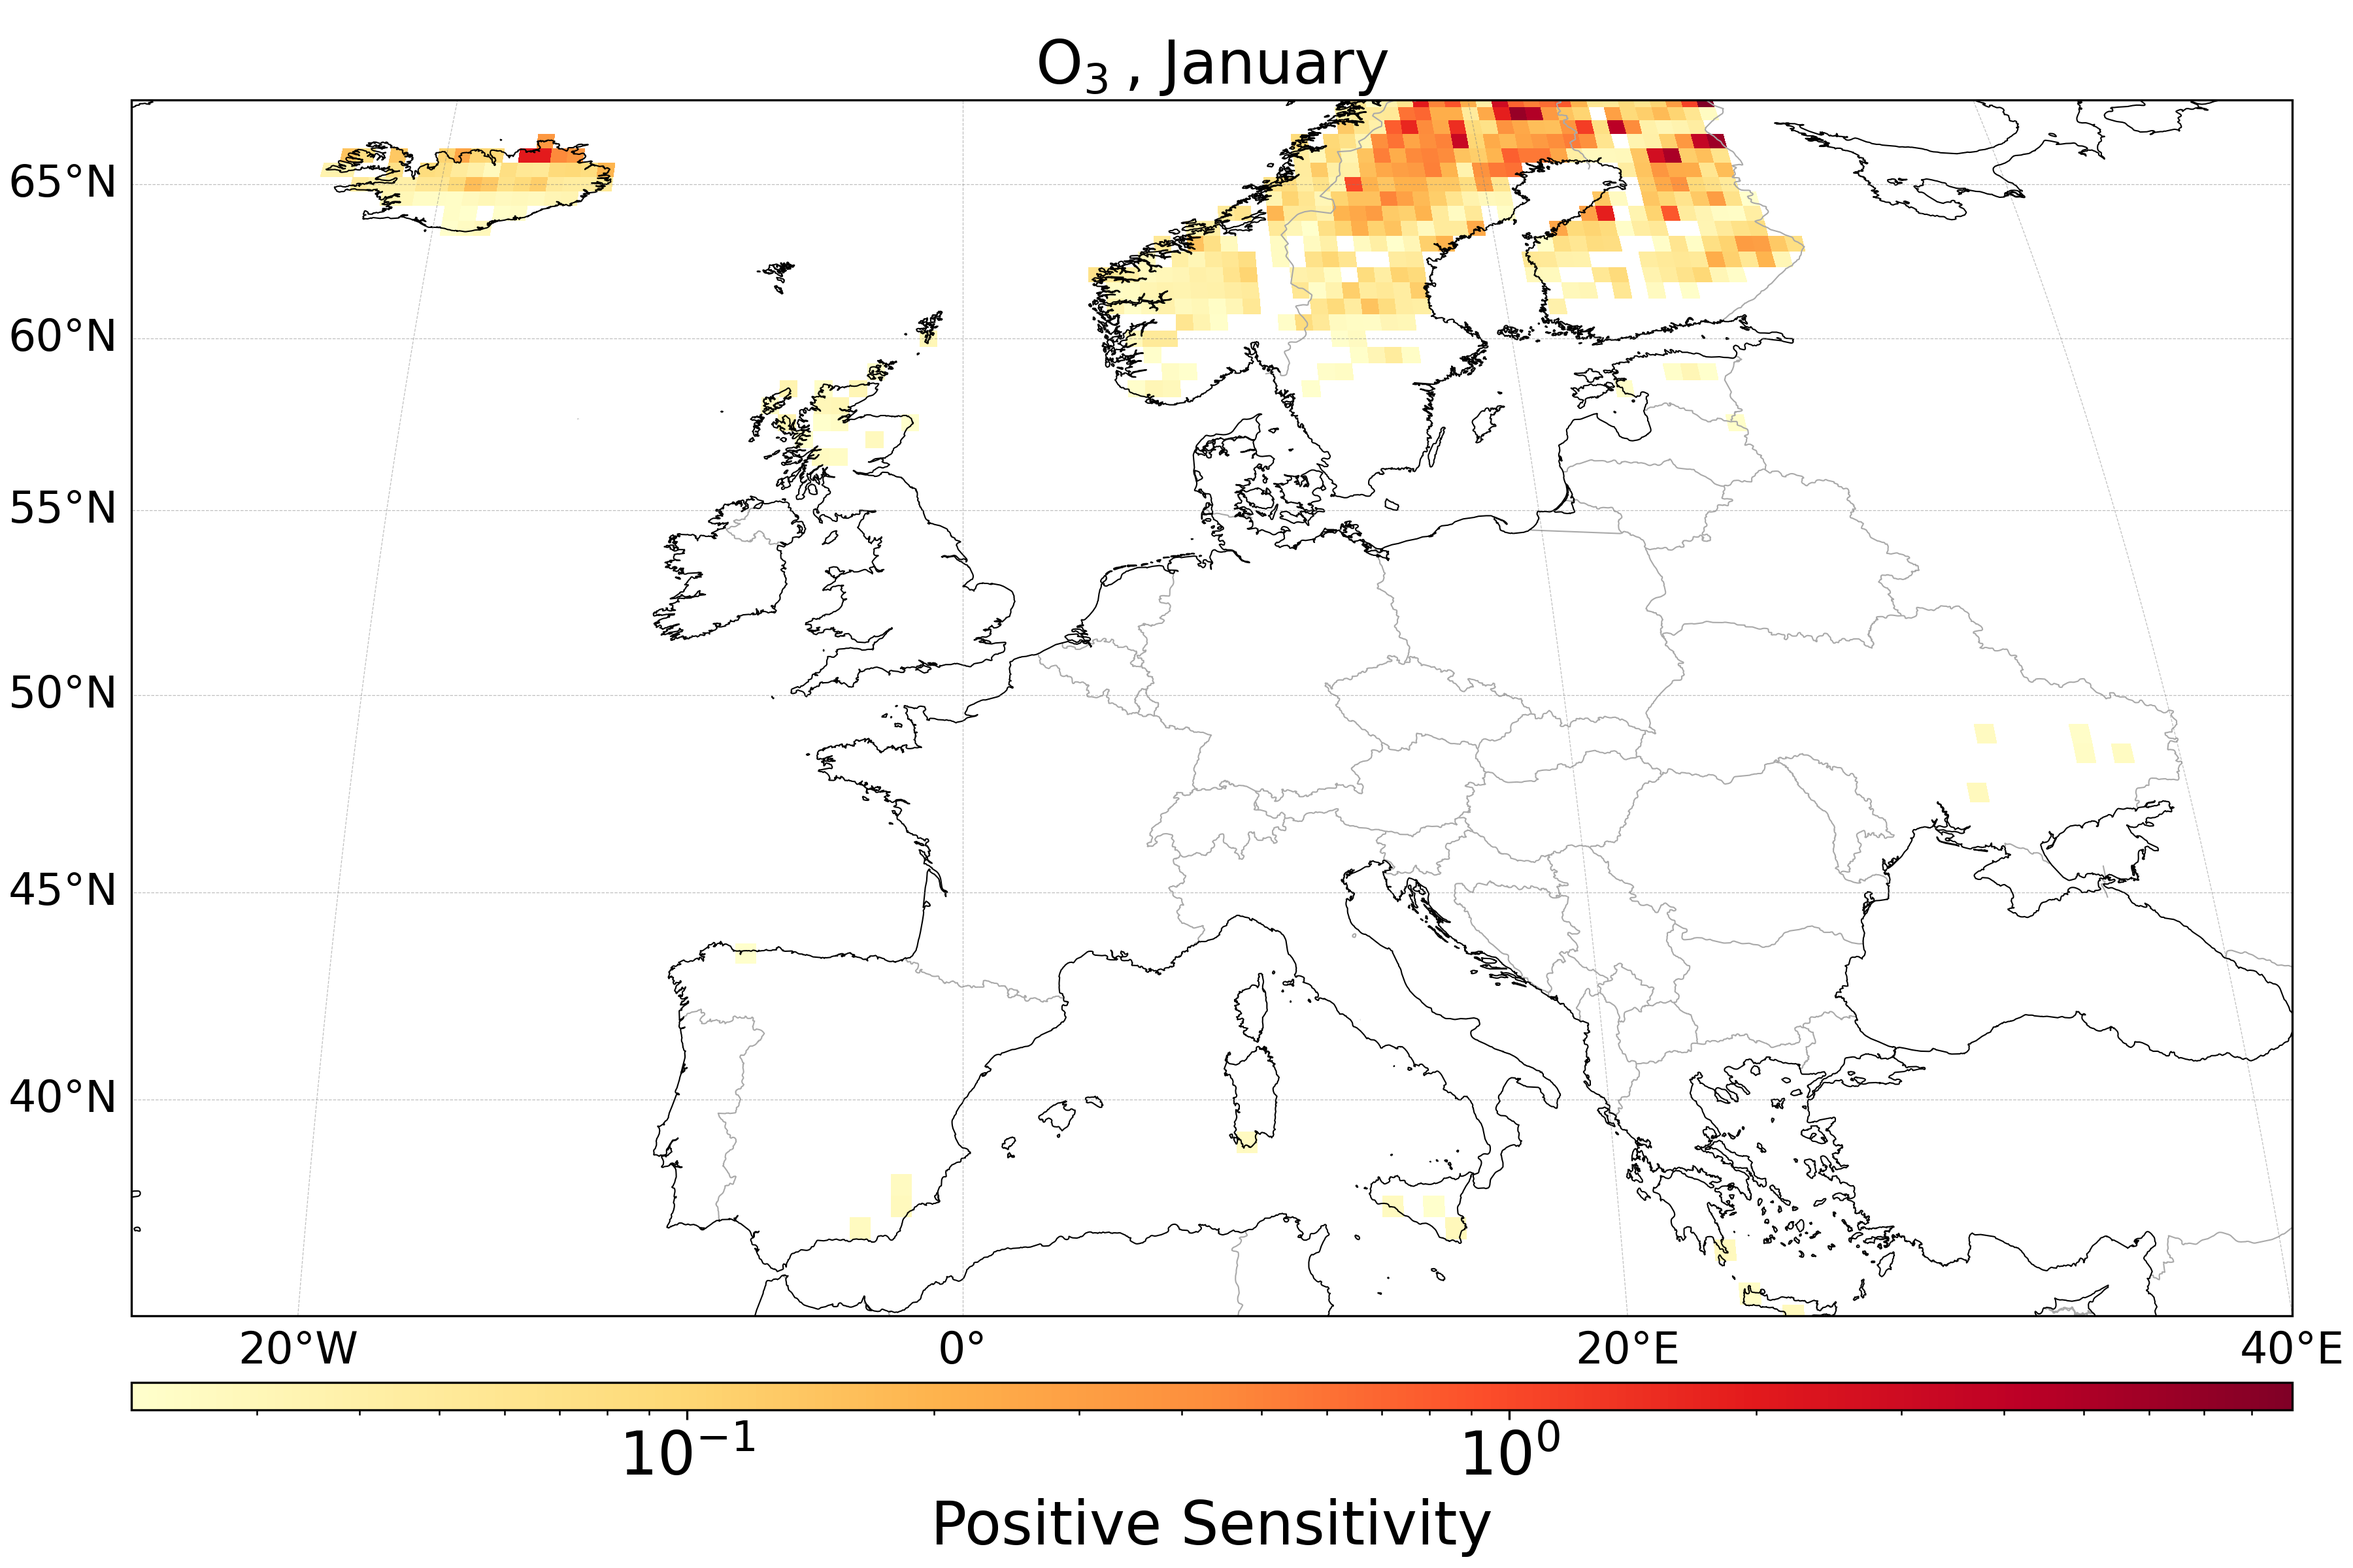
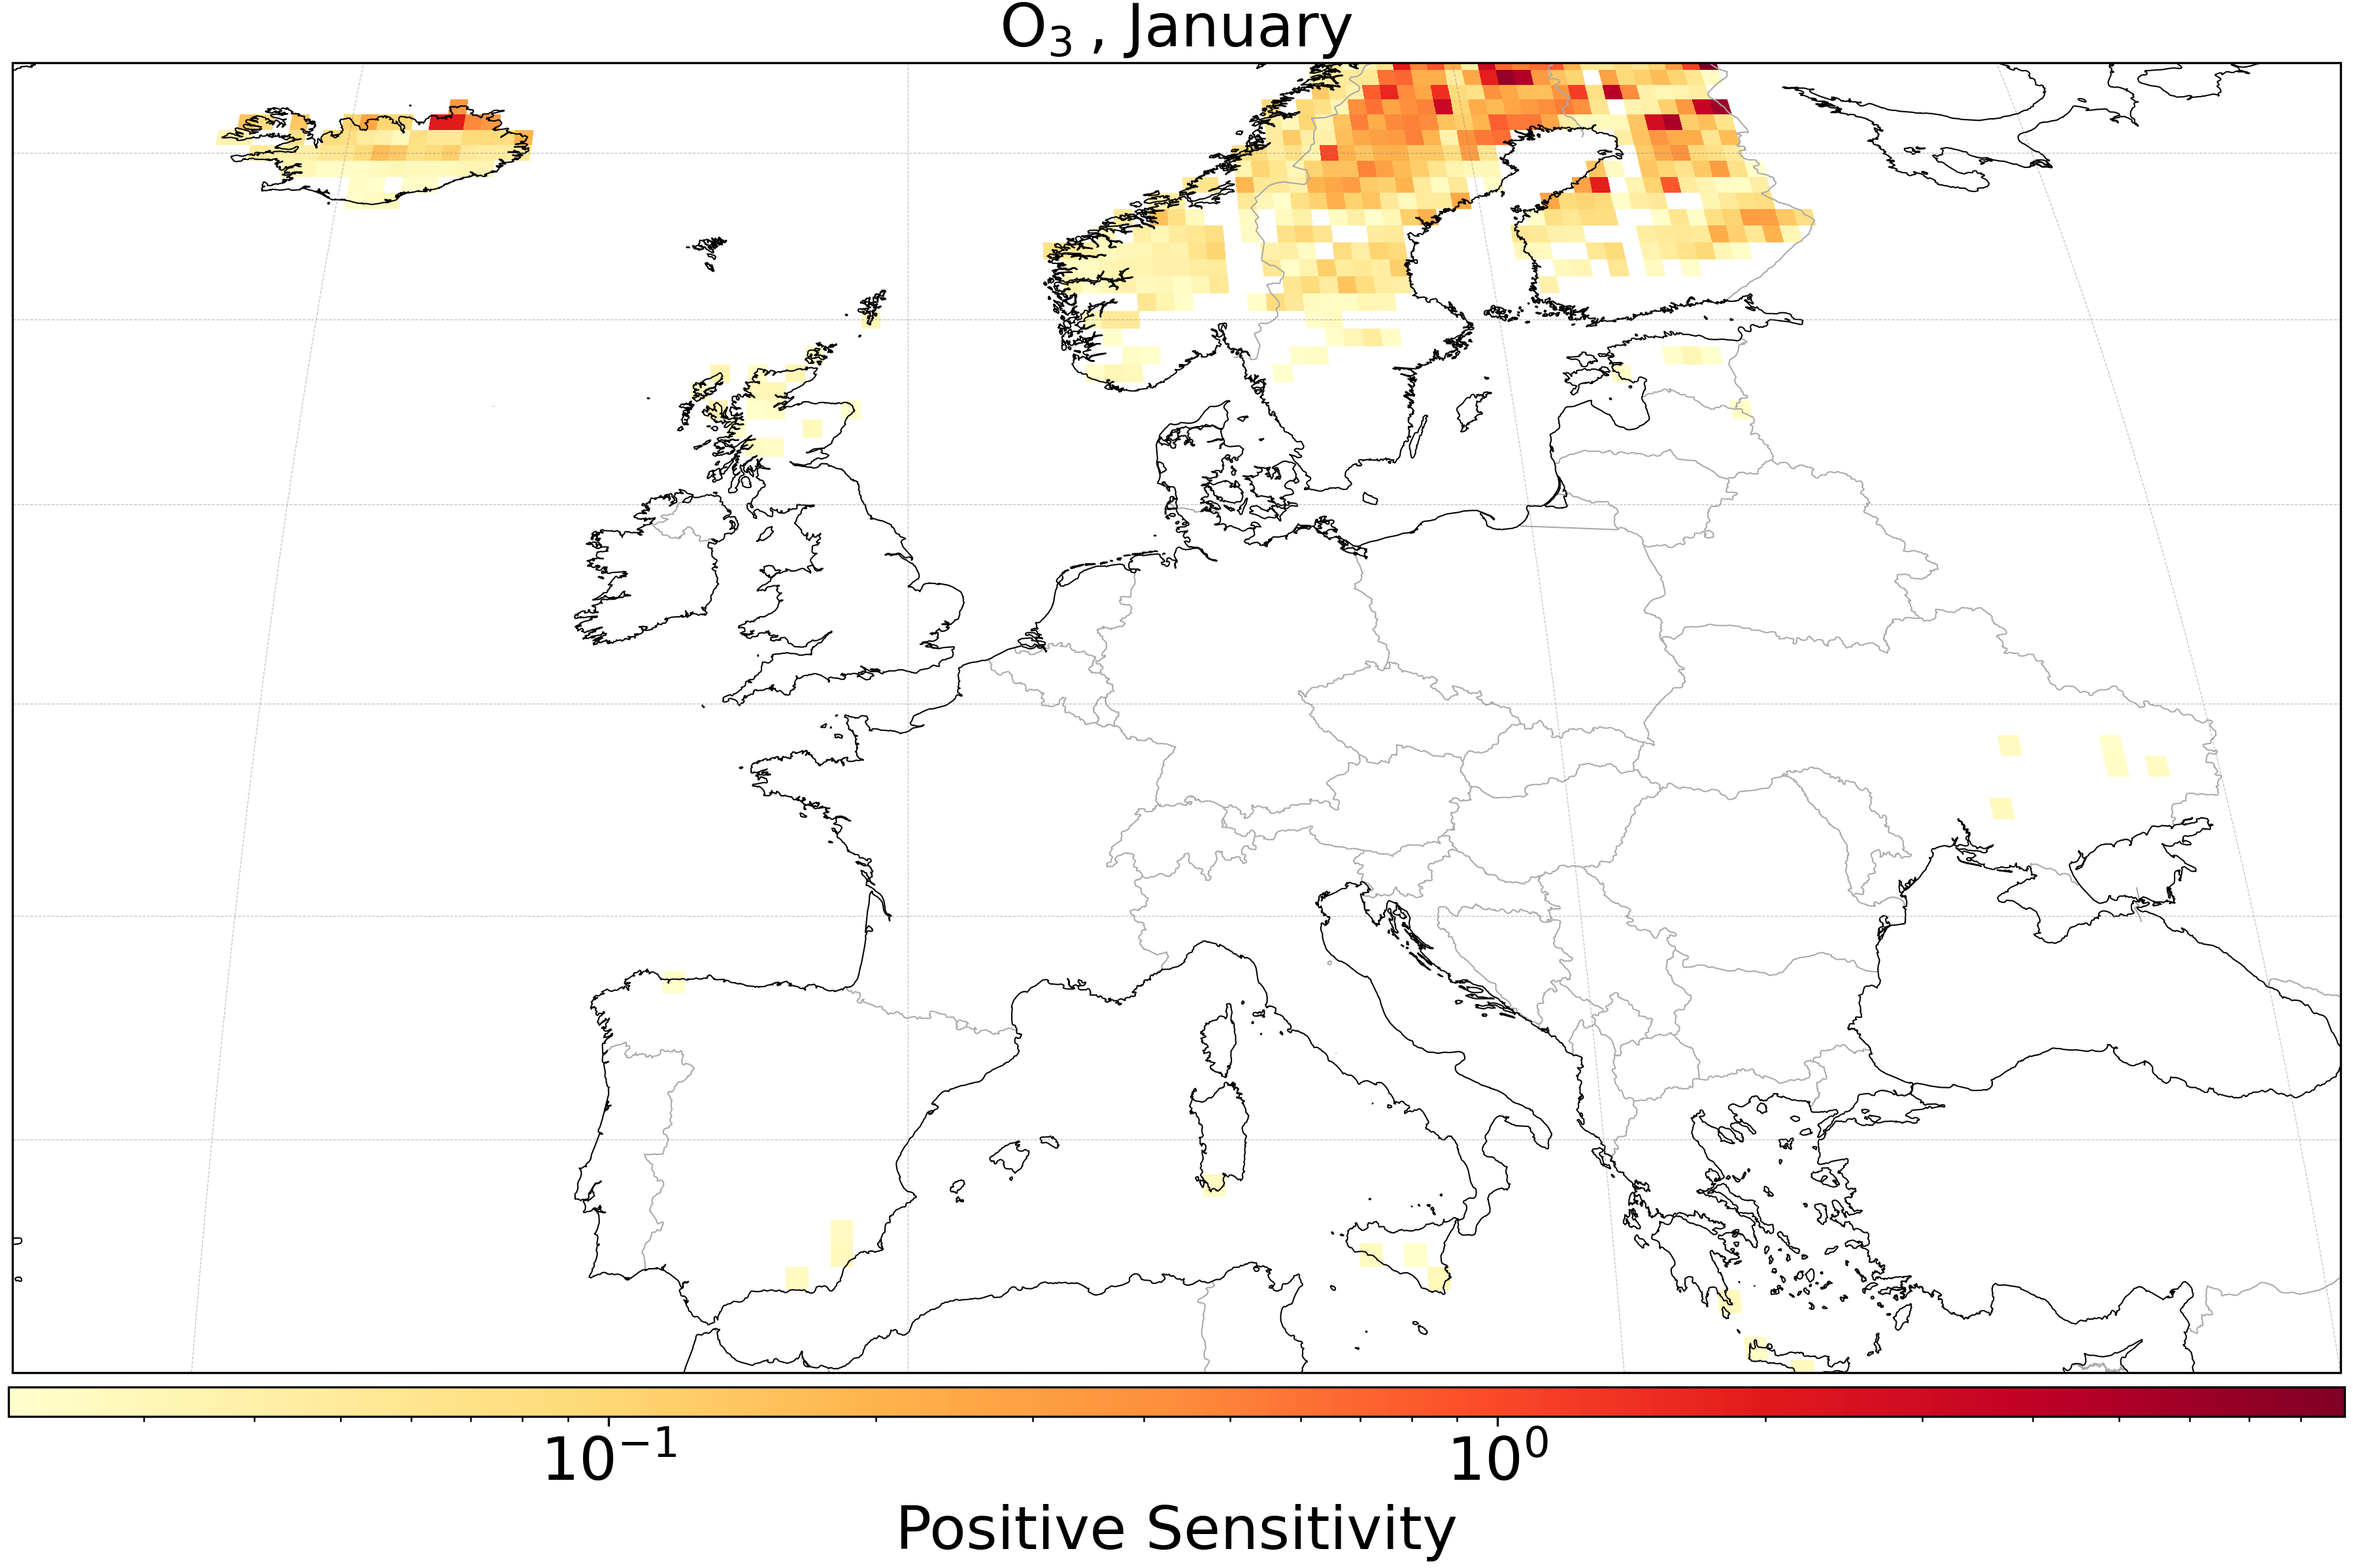
New pictures without grid labels

diff --git a/division_processing/sensitivity_log_europe.py b/division_processing/sensitivity_log_europe.py
@@ -226,7 +226,7 @@ for type_, vars in types.items():
 
             # Optional: Add gridlines with labels
             gl = ax.gridlines(
-                draw_labels=True, linewidth=0.3, color="gray", alpha=0.5, linestyle="--"
+                draw_labels=False, linewidth=0.3, color="gray", alpha=0.5, linestyle="--"
             )
             gl.top_labels = False
             gl.right_labels = False
